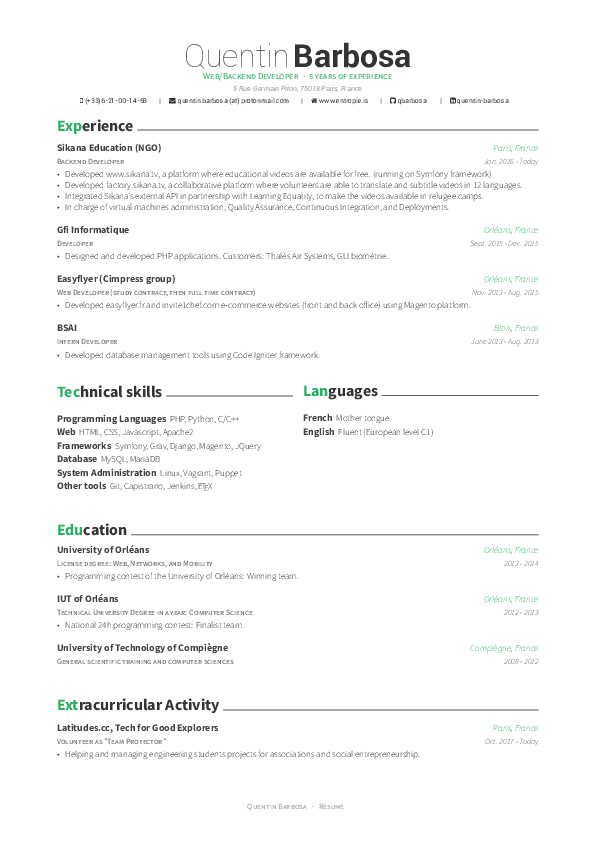
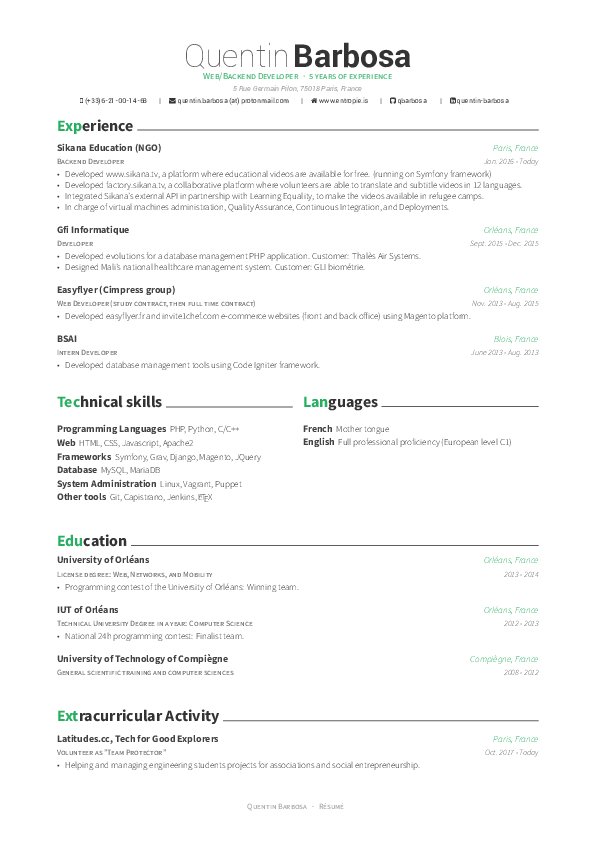
Adding details to Gfi experience

Changed region(s): [[0.0908, 0.2779, 0.9076, 0.8029], [0.0908, 0.8337, 0.9076, 0.9264]]

diff --git a/resume/experience.tex b/resume/experience.tex
@@ -21,7 +21,8 @@
     {Sept. 2015 - Dec. 2015}
     {
       \begin{cvitems}
-        \item {Designed and developed PHP applications. Customers: Thalès Air Systems, GLI biométrie.}
+        \item {Developed evolutions for a database management PHP application. Customer: Thalès Air Systems.}
+        \item {Designed Mali's national healthcare management system. Customer: GLI biométrie.}
       \end{cvitems}
     }
   \cventry
